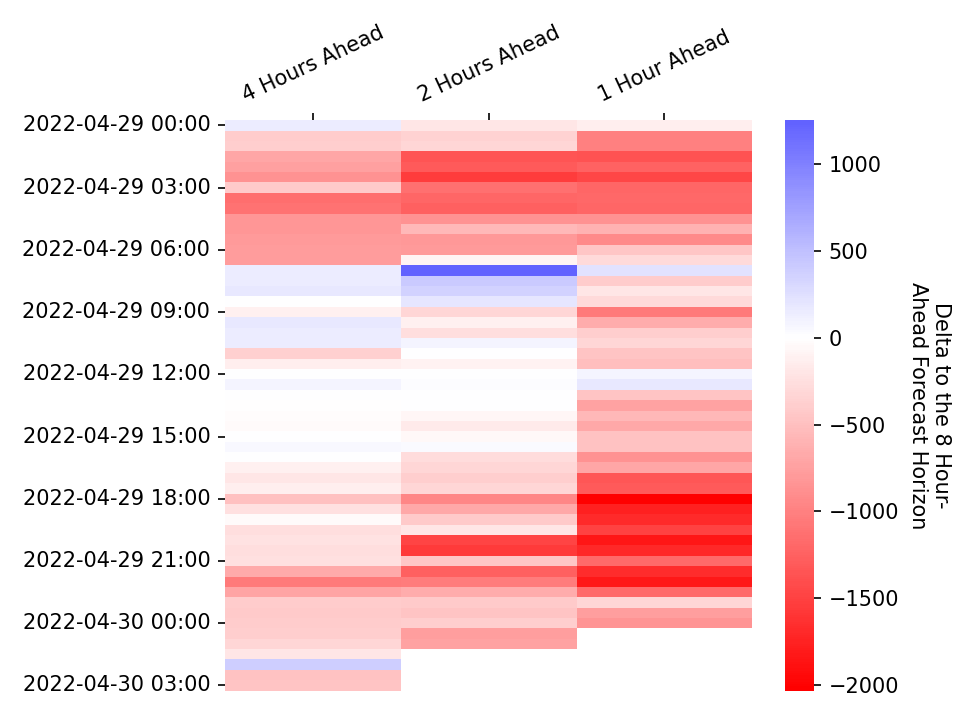
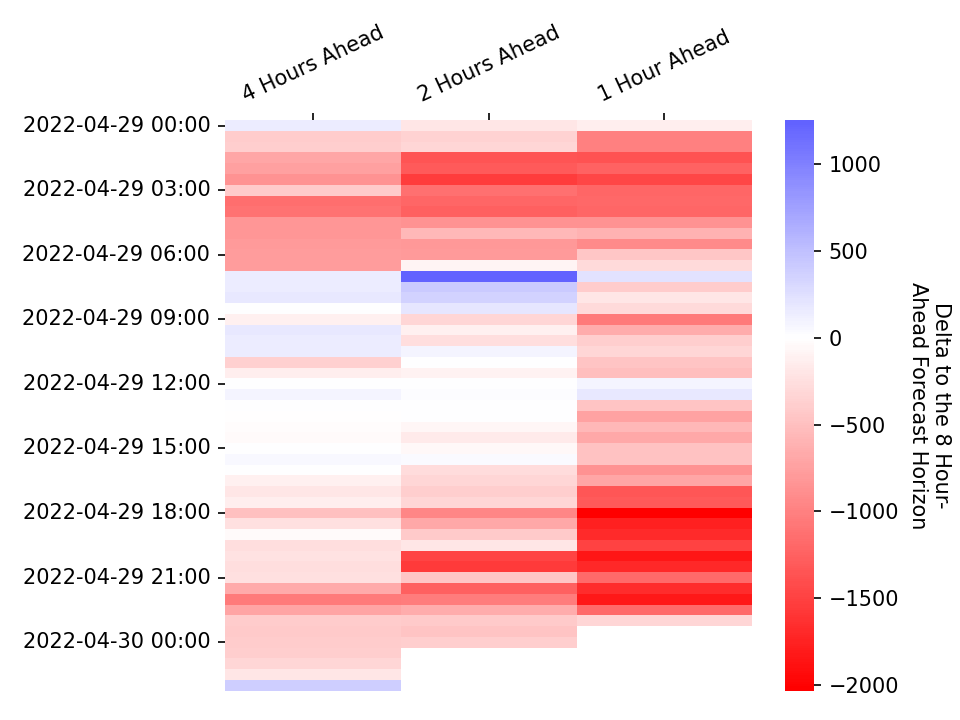
Apply automatic changes

diff --git a/docs/js/map.js b/docs/js/map.js
@@ -144,7 +144,7 @@ document.addEventListener("DOMContentLoaded", function() {
                 follow: 1
             });
             mymap.addControl(sliderControl);
-            sliderControl.startSlider(333);
+            sliderControl.startSlider(334);
         });
     });
 });

diff --git a/docs/visualisations.md b/docs/visualisations.md
@@ -60,7 +60,7 @@ In each settlement period the system operator publishes the de-rated margin fore
 * At 1200 hours on each calendar day for all Settlement Periods for which Gate Closure has not yet passed and which occur within the current Operational Day or the following Operational Day; and
 * At eight, four, two and one hour(s) prior to the beginning of the Settlement Period to which the De-Rated Margin Forecast relates.
 
-These figures will be updated on an hourly basis, the last update was at: 2022-04-29 22:15
+These figures will be updated on an hourly basis, the last update was at: 2022-04-29 22:45
 
 <br>
 
@@ -83,7 +83,7 @@ The following heatmap shows how the more recent de-rated margin forecasts deviat
 
 ### Power Output Map
 
-Last Updated: 2022-04-29 22:15
+Last Updated: 2022-04-29 22:45
 
 This map shows the power output of individual plants connected to the transmission grid as stated in their most recent Physical Notifications. This data can be retrieved through the *PHYBMDATA* BMRS stream, the out-turn data can be viewed one week later through the *B1610* stream. The scrollbar at the top of the map can be used to view how the generation sources have changed their output over the last week, the layer control can be used to toggle on/off the transmission network, and the plants themselves can be clicked to reveal additional information. The plant location data used in this map has been taking from a sister project, [the Power Station Dictionary](https://osuked.github.io/Power-Station-Dictionary/), which aims to link between data about individual power plants.
 
